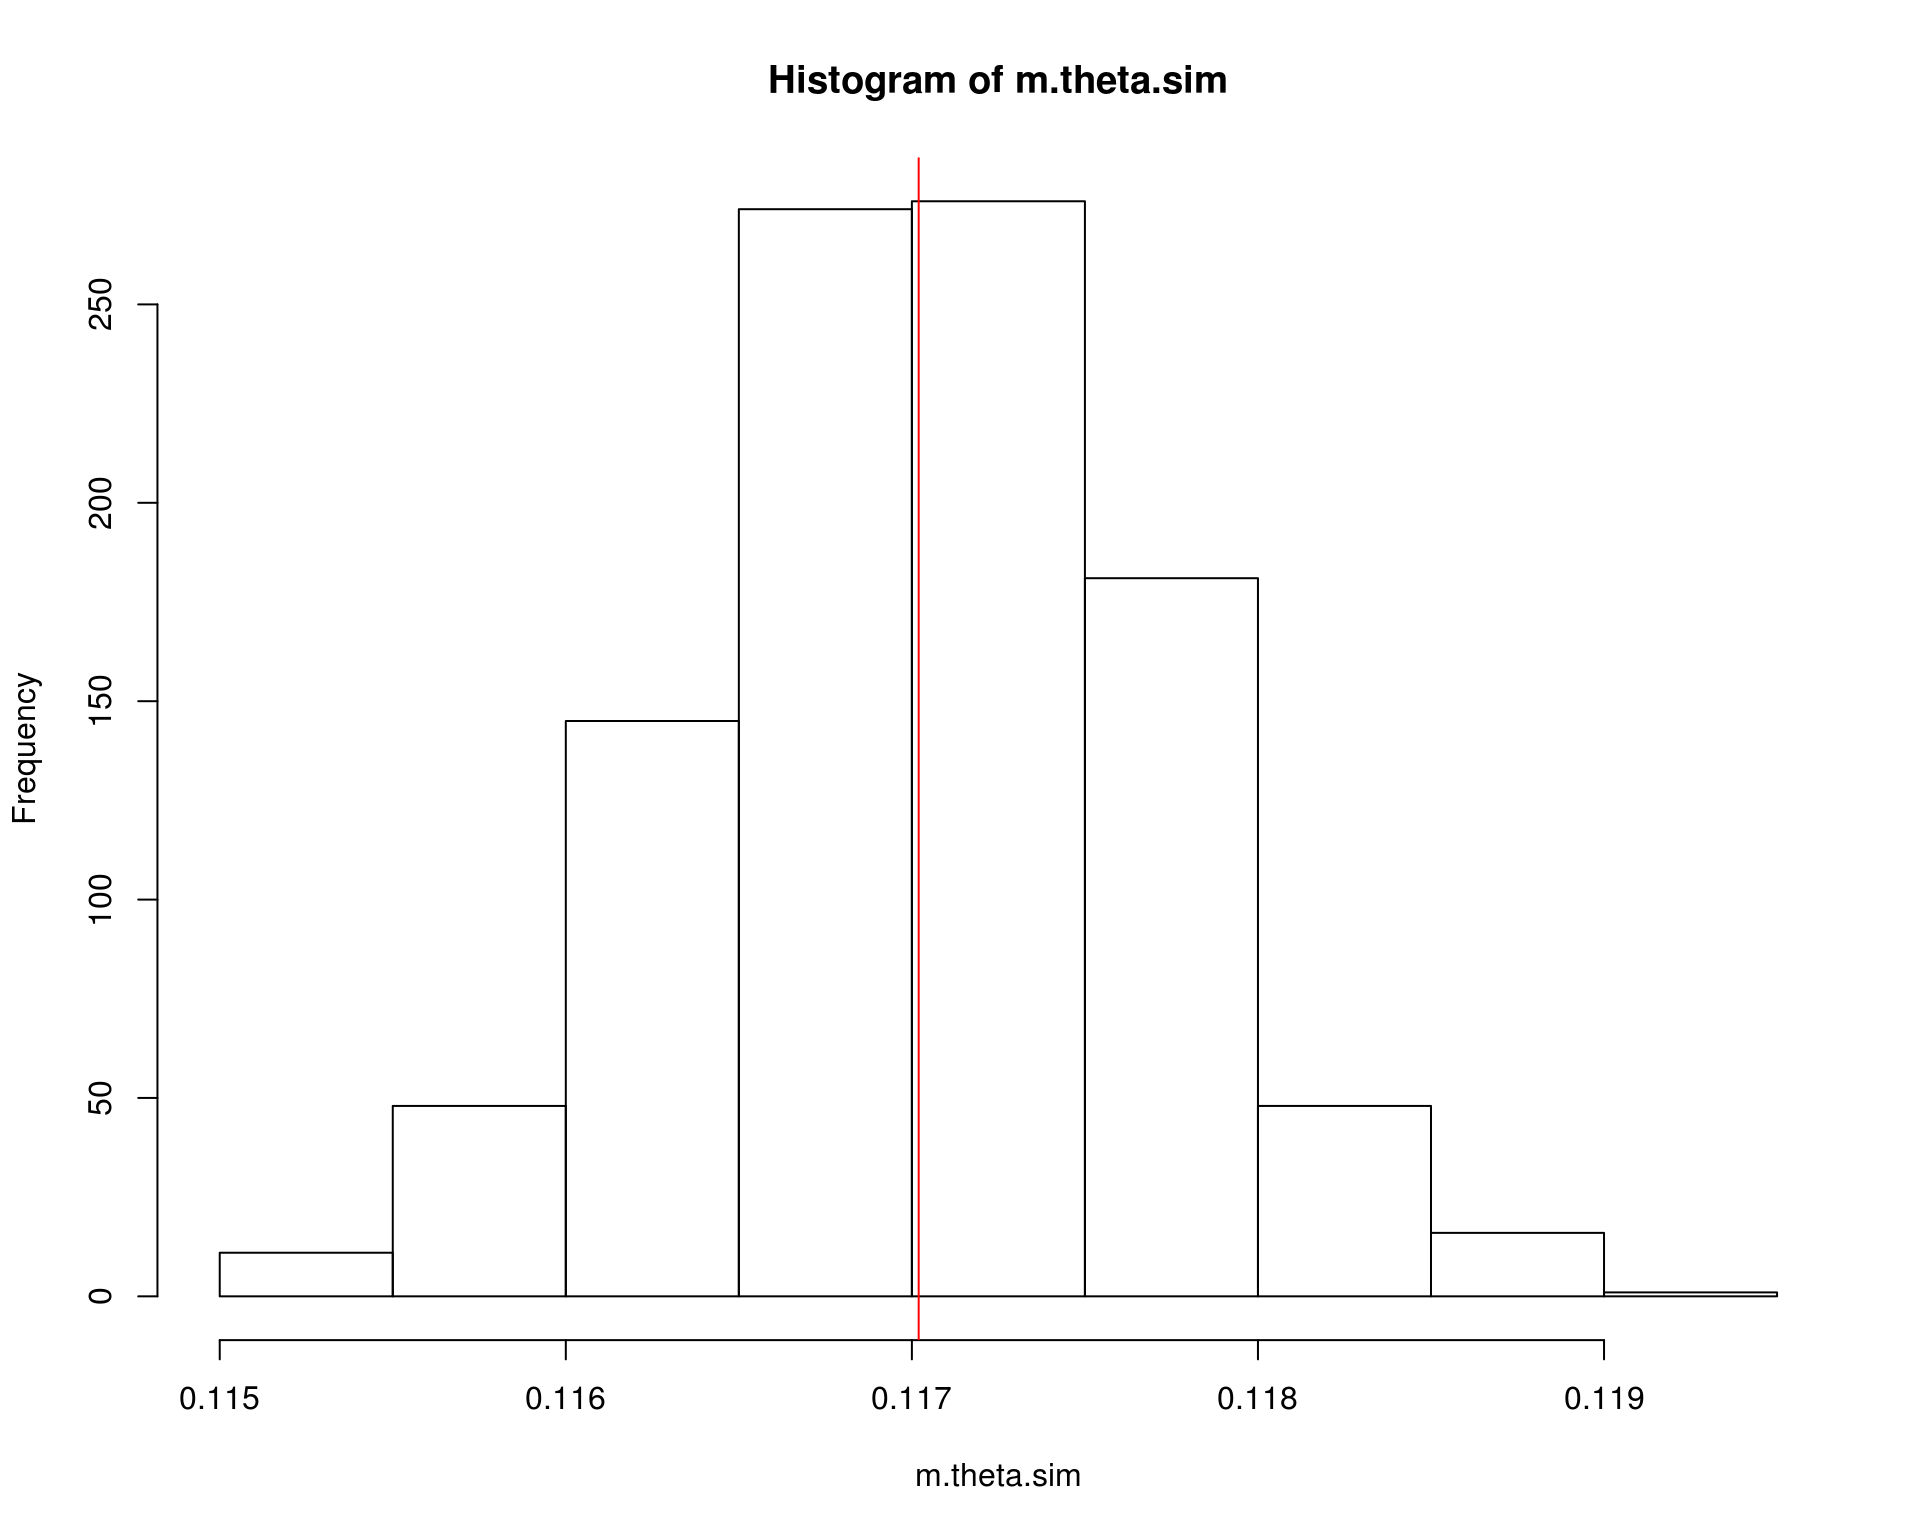
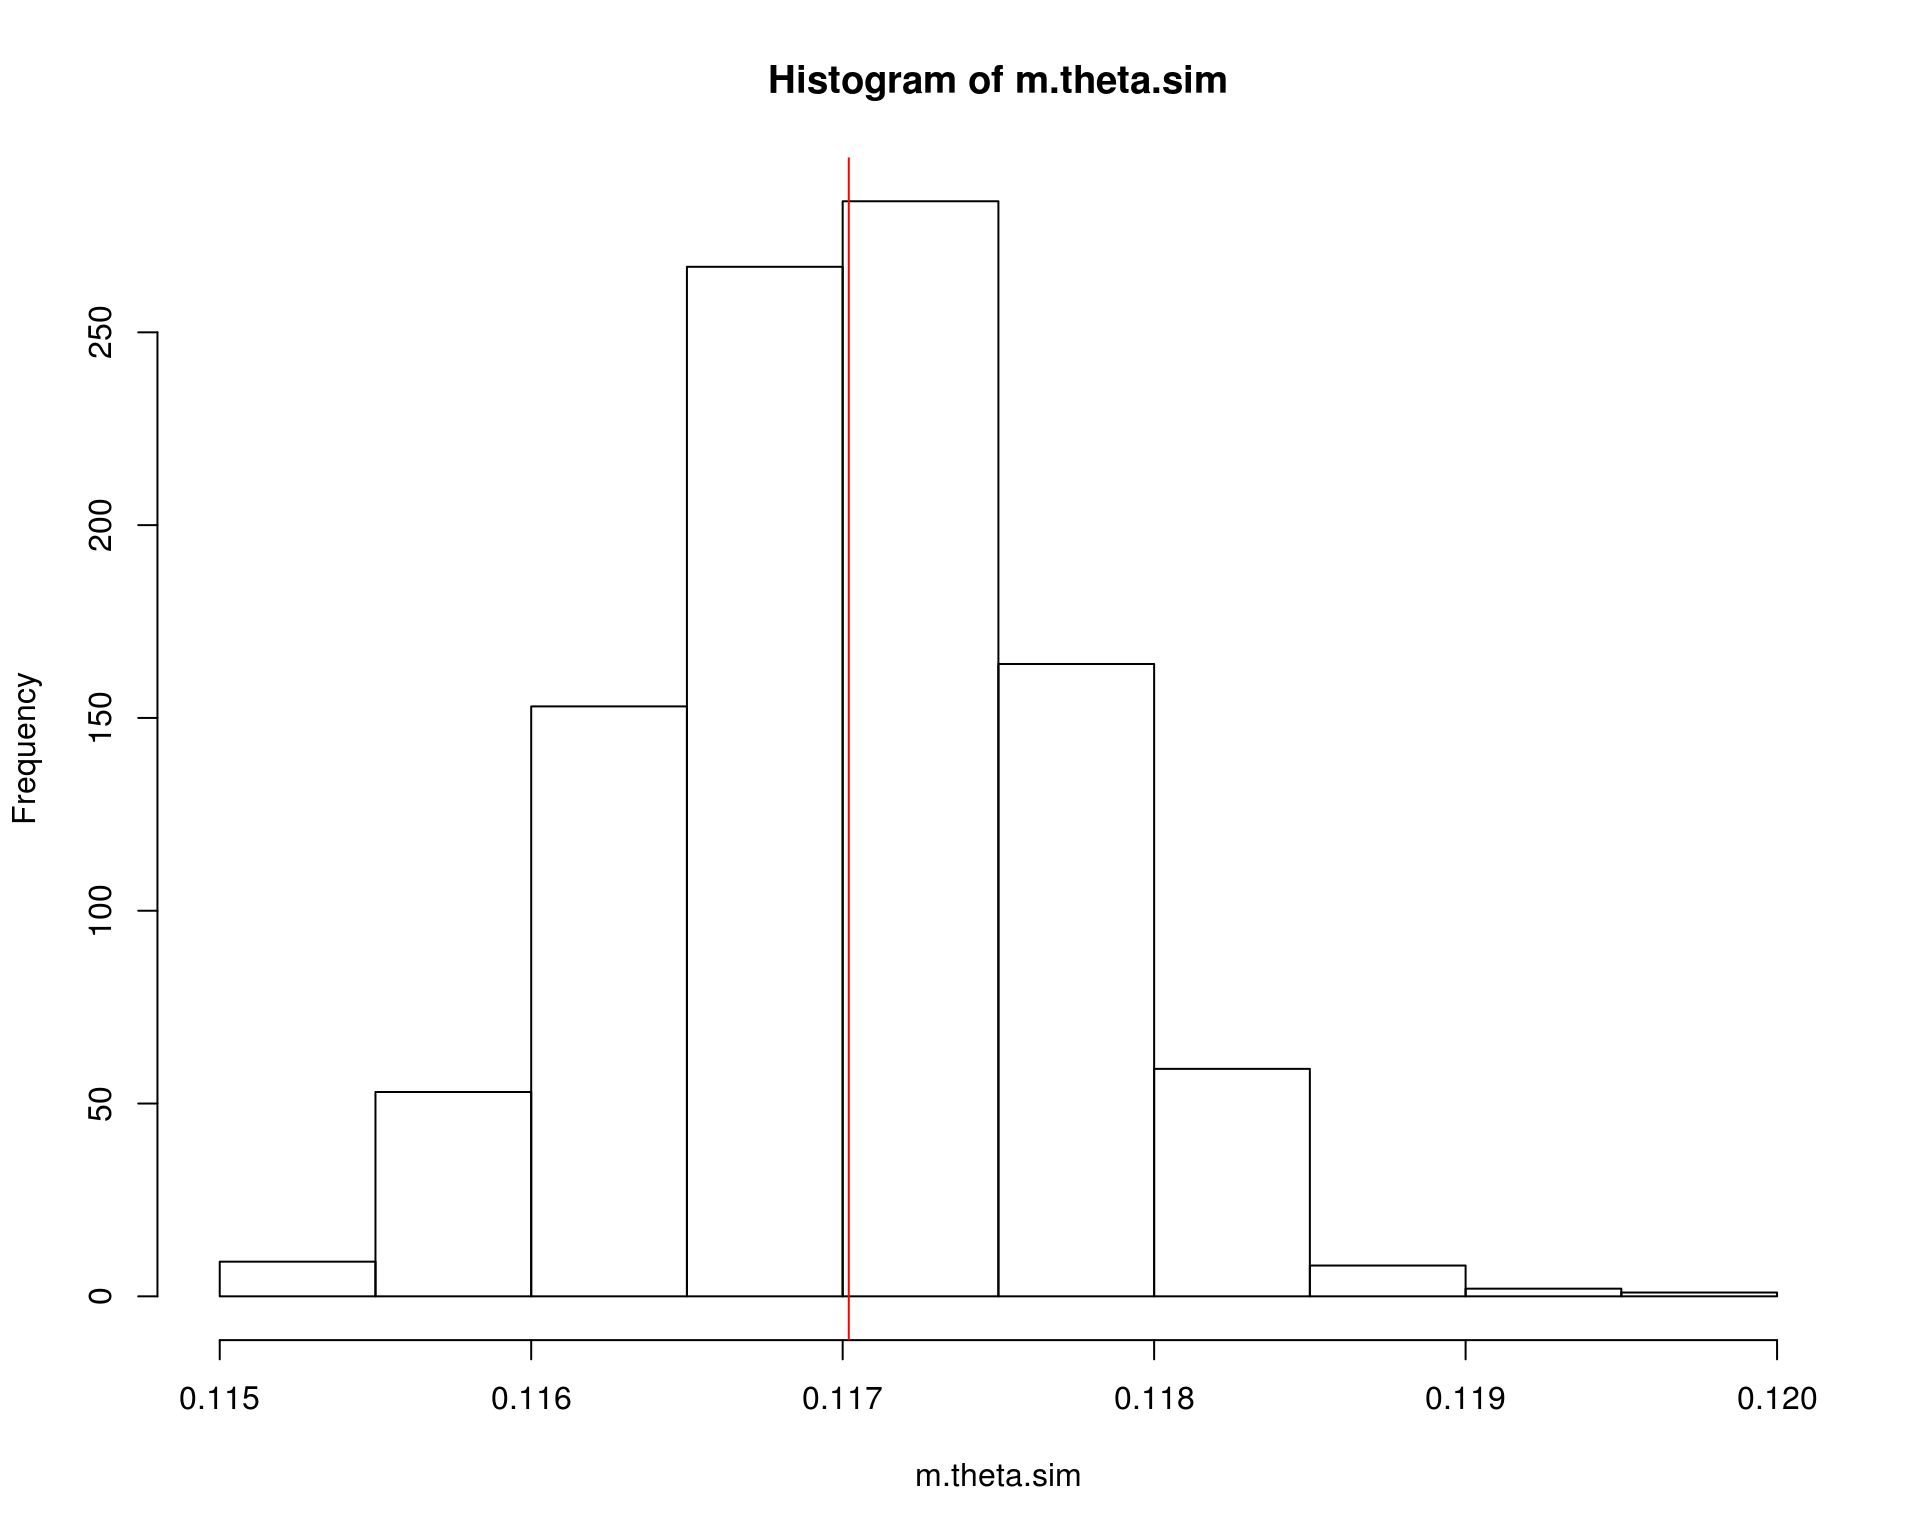
The site is alive.

diff --git a/MC_intro.html b/MC_intro.html
@@ -553,7 +553,7 @@ P(\lim_{n \to \infty} |\bar{X}_n - \mu| &lt; \epsilon) = 1
 <a class="sourceLine" id="cb1-5" title="5">theta.hat &lt;-<span class="st"> </span><span class="kw">exp</span>(<span class="op">-</span>x)</a>
 <a class="sourceLine" id="cb1-6" title="6"><span class="co">## Calcula a média</span></a>
 <a class="sourceLine" id="cb1-7" title="7">(m.theta.hat &lt;-<span class="st"> </span><span class="kw">sum</span>(theta.hat)<span class="op">/</span>m)</a>
-<a class="sourceLine" id="cb1-8" title="8"><span class="co"># [1] 0.6332762</span></a></code></pre></div>
+<a class="sourceLine" id="cb1-8" title="8"><span class="co"># [1] 0.6307669</span></a></code></pre></div>
 <p>Nesse caso, podemos obter a solução analítica e integração numérica no R para comparar as estimativas</p>
 <div class="sourceCode" id="cb2"><pre class="sourceCode r"><code class="sourceCode r"><a class="sourceLine" id="cb2-1" title="1"><span class="co">## Solução analítica</span></a>
 <a class="sourceLine" id="cb2-2" title="2">(theta &lt;-<span class="st"> </span><span class="dv">1</span> <span class="op">-</span><span class="st"> </span><span class="kw">exp</span>(<span class="op">-</span><span class="dv">1</span>))</a>
@@ -593,7 +593,7 @@ P(\lim_{n \to \infty} |\bar{X}_n - \mu| &lt; \epsilon) = 1
 <a class="sourceLine" id="cb3-6" title="6">theta.hat &lt;-<span class="st"> </span><span class="kw">exp</span>(<span class="op">-</span>x)</a>
 <a class="sourceLine" id="cb3-7" title="7"><span class="co">## Calcula a média * (b - a)</span></a>
 <a class="sourceLine" id="cb3-8" title="8">(m.theta.hat &lt;-<span class="st"> </span>(<span class="kw">sum</span>(theta.hat)<span class="op">/</span>m) <span class="op">*</span><span class="st"> </span>(b <span class="op">-</span><span class="st"> </span>a))</a>
-<a class="sourceLine" id="cb3-9" title="9"><span class="co"># [1] 0.1181393</span></a></code></pre></div>
+<a class="sourceLine" id="cb3-9" title="9"><span class="co"># [1] 0.1178951</span></a></code></pre></div>
 <p>Nesse caso, podemos obter a solução analítica e integração numérica no R para comparar as estimativas</p>
 <div class="sourceCode" id="cb4"><pre class="sourceCode r"><code class="sourceCode r"><a class="sourceLine" id="cb4-1" title="1"><span class="co">## Solução analítica</span></a>
 <a class="sourceLine" id="cb4-2" title="2">(theta &lt;-<span class="st"> </span><span class="kw">exp</span>(<span class="op">-</span><span class="dv">2</span>) <span class="op">-</span><span class="st"> </span><span class="kw">exp</span>(<span class="op">-</span><span class="dv">4</span>))</a>
@@ -614,7 +614,7 @@ P[X&gt;2] = \int_2^{\infty} e^{-x} dx
 <a class="sourceLine" id="cb5-5" title="5">theta.hat2 &lt;-<span class="st"> </span><span class="kw">exp</span>(<span class="op">-</span>x2)</a>
 <a class="sourceLine" id="cb5-6" title="6"><span class="co">## Calcula a média * (b - a)</span></a>
 <a class="sourceLine" id="cb5-7" title="7">(m.theta.hat2 &lt;-<span class="st"> </span>(<span class="kw">sum</span>(theta.hat2)<span class="op">/</span>m) <span class="op">*</span><span class="st"> </span>(<span class="fl">1e5</span> <span class="op">-</span><span class="st"> </span><span class="dv">2</span>))</a>
-<a class="sourceLine" id="cb5-8" title="8"><span class="co"># [1] 0.02695374</span></a>
+<a class="sourceLine" id="cb5-8" title="8"><span class="co"># [1] 0.917241</span></a>
 <a class="sourceLine" id="cb5-9" title="9"><span class="co">## Solução analítica</span></a>
 <a class="sourceLine" id="cb5-10" title="10">(theta2 &lt;-<span class="st"> </span><span class="kw">exp</span>(<span class="op">-</span><span class="dv">2</span>) <span class="op">-</span><span class="st"> </span><span class="kw">exp</span>(<span class="op">-</span><span class="fl">1e5</span>))</a>
 <a class="sourceLine" id="cb5-11" title="11"><span class="co"># [1] 0.1353353</span></a>
@@ -635,17 +635,17 @@ P[X&gt;2] = \int_2^{\infty} e^{-x} dx
 \]</span></p>
 <p>Seguindo o exemplo anterior, vimos que a estimativa da integral é</p>
 <div class="sourceCode" id="cb6"><pre class="sourceCode r"><code class="sourceCode r"><a class="sourceLine" id="cb6-1" title="1">m.theta.hat</a>
-<a class="sourceLine" id="cb6-2" title="2"><span class="co"># [1] 0.1181393</span></a></code></pre></div>
+<a class="sourceLine" id="cb6-2" title="2"><span class="co"># [1] 0.1178951</span></a></code></pre></div>
 <p>Mas veja que existe uma distribuição de valores para compor esta estimativa média</p>
 <div class="sourceCode" id="cb7"><pre class="sourceCode r"><code class="sourceCode r"><a class="sourceLine" id="cb7-1" title="1"><span class="kw">hist</span>(theta.hat); <span class="kw">abline</span>(<span class="dt">v =</span> theta, <span class="dt">col =</span> <span class="dv">2</span>)</a></code></pre></div>
 <p><img src="figures/MC_intro/unnamed-chunk-9-1.png" width="80%" style="display: block; margin: auto;" /></p>
 <p>A variância relacionada ao estimador pode então ser calculada como</p>
 <div class="sourceCode" id="cb8"><pre class="sourceCode r"><code class="sourceCode r"><a class="sourceLine" id="cb8-1" title="1"><span class="co">## Variancia</span></a>
 <a class="sourceLine" id="cb8-2" title="2">(v.theta.hat &lt;-<span class="st"> </span><span class="kw">sum</span>((theta.hat <span class="op">-</span><span class="st"> </span>m.theta.hat)<span class="op">^</span><span class="dv">2</span>)<span class="op">/</span>m<span class="op">^</span><span class="dv">2</span>)</a>
-<a class="sourceLine" id="cb8-3" title="3"><span class="co"># [1] 4.586297e-07</span></a>
+<a class="sourceLine" id="cb8-3" title="3"><span class="co"># [1] 4.563123e-07</span></a>
 <a class="sourceLine" id="cb8-4" title="4"><span class="co">## Erro padrão</span></a>
 <a class="sourceLine" id="cb8-5" title="5">(se.theta.hat &lt;-<span class="st"> </span><span class="kw">sqrt</span>(v.theta.hat))</a>
-<a class="sourceLine" id="cb8-6" title="6"><span class="co"># [1] 0.000677222</span></a></code></pre></div>
+<a class="sourceLine" id="cb8-6" title="6"><span class="co"># [1] 0.0006755089</span></a></code></pre></div>
 <p>Pelo Teorema do Limite Central, temos que</p>
 <p><span class="math display">\[
 \frac{\hat\theta - \text{E}(\hat\theta)}{\sqrt{\hat{V}(\hat\theta)}}
@@ -659,10 +659,10 @@ P[X&gt;2] = \int_2^{\infty} e^{-x} dx
 <p>Com esse resultado, podemos inclusive fornecer um intervalo de confiança associado à nossa estimativa</p>
 <div class="sourceCode" id="cb10"><pre class="sourceCode r"><code class="sourceCode r"><a class="sourceLine" id="cb10-1" title="1"><span class="co">## Media e veriancia</span></a>
 <a class="sourceLine" id="cb10-2" title="2"><span class="kw">c</span>(m.theta.hat, v.theta.hat)</a>
-<a class="sourceLine" id="cb10-3" title="3"><span class="co"># [1] 1.181393e-01 4.586297e-07</span></a>
+<a class="sourceLine" id="cb10-3" title="3"><span class="co"># [1] 1.178951e-01 4.563123e-07</span></a>
 <a class="sourceLine" id="cb10-4" title="4"><span class="co">## Intervalo de confiança (95%)</span></a>
 <a class="sourceLine" id="cb10-5" title="5"><span class="kw">c</span>(m.theta.hat <span class="op">-</span><span class="st"> </span><span class="fl">1.96</span> <span class="op">*</span><span class="st"> </span>se.theta.hat, m.theta.hat <span class="op">+</span><span class="st"> </span><span class="fl">1.96</span> <span class="op">*</span><span class="st"> </span>se.theta.hat)</a>
-<a class="sourceLine" id="cb10-6" title="6"><span class="co"># [1] 0.1168120 0.1194667</span></a></code></pre></div>
+<a class="sourceLine" id="cb10-6" title="6"><span class="co"># [1] 0.1165711 0.1192191</span></a></code></pre></div>
 <p>Veja que assintoticamente, i.e., conforme aumentamos o tamanho da amostra, o valor da integral se aproxima cada vez mais do valor verdadeiro (que nesse caso sabemos calcular analiticamente, apenas para comparação).</p>
 <div class="sourceCode" id="cb11"><pre class="sourceCode r"><code class="sourceCode r"><a class="sourceLine" id="cb11-1" title="1"><span class="co">## Simula a convergência para o verdadeiro valor conforme aumenta o</span></a>
 <a class="sourceLine" id="cb11-2" title="2"><span class="co">## tamanho da amostra</span></a>

diff --git a/aulas.html b/aulas.html
@@ -341,7 +341,7 @@ $(document).ready(function () {
 <li><strong>24/10 (Qui)</strong>: (FM) Método de aceitação-rejeição. MCMC: Metropolis-Hastings e Metropolis random walk. <a href="MCMC-1.html">HTML</a>.</li>
 <li><strong>29/10 (Ter)</strong>: (PJ) Modelos com múltiplos parâmetros. Cap 4 da apostila e exercícios.</li>
 <li><strong>31/10 (Qui)</strong>: (FM) Método geral de Metropolis-Hastings. <a href="MCMC-2.html">HTML</a>. Exemplo de amostrador de Gibbs. <a href="scripts/gibbs_aula1.R">Script</a>.</li>
-<li><strong>05/11 (Ter)</strong>: (PJ) Algorítmo de Gibbs: dos exemplos, distribuição normal e modelo Poisson com 2 níveis hierárquicos <a href="scripts/normalGIBBS.R">Script</a>. <a href="script/PoissonGammaGIBBS.html">HTML</a></li>
+<li><strong>05/11 (Ter)</strong>: (PJ) Algorítmo de Gibbs: dos exemplos, distribuição normal e modelo Poisson com 2 níveis hierárquicos <a href="scripts/normalGIBBS.R">Script</a>. <a href="scripts/PoissonGammaGIBBS.html">HTML</a></li>
 <li><strong>07/11 (Qui)</strong>:</li>
 <li><strong>12/11 (Ter)</strong>:</li>
 <li><strong>14/11 (Qui)</strong>:</li>
